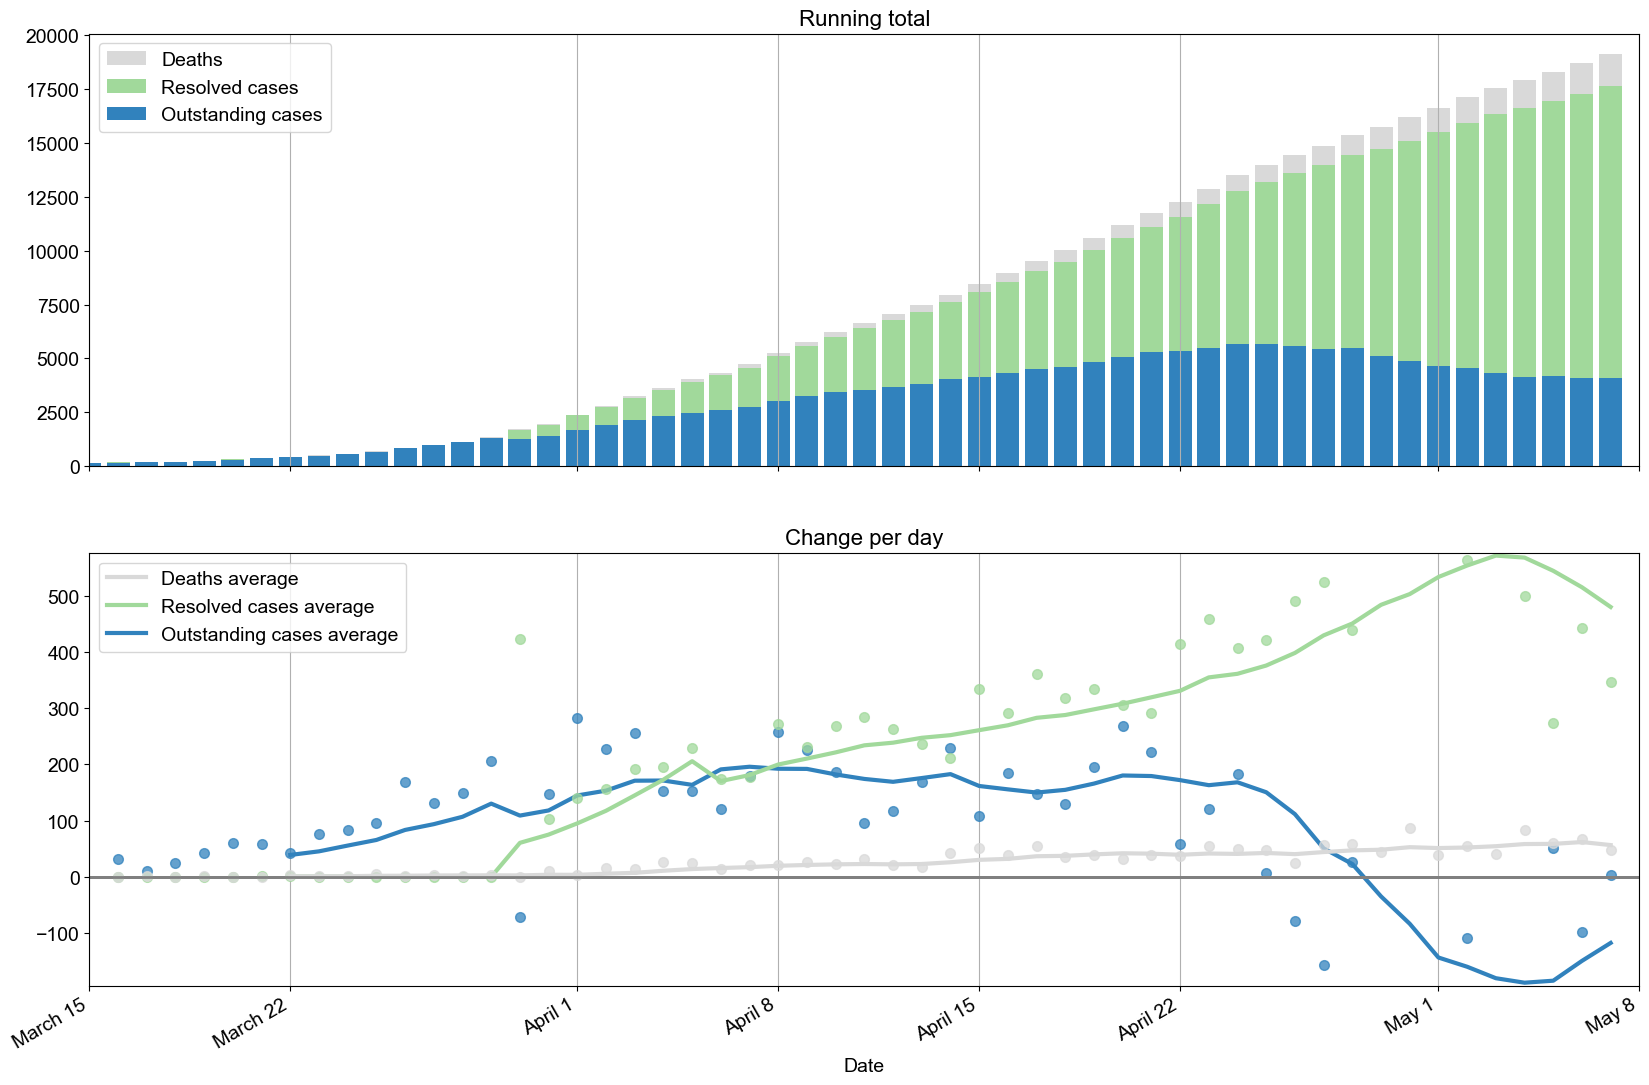
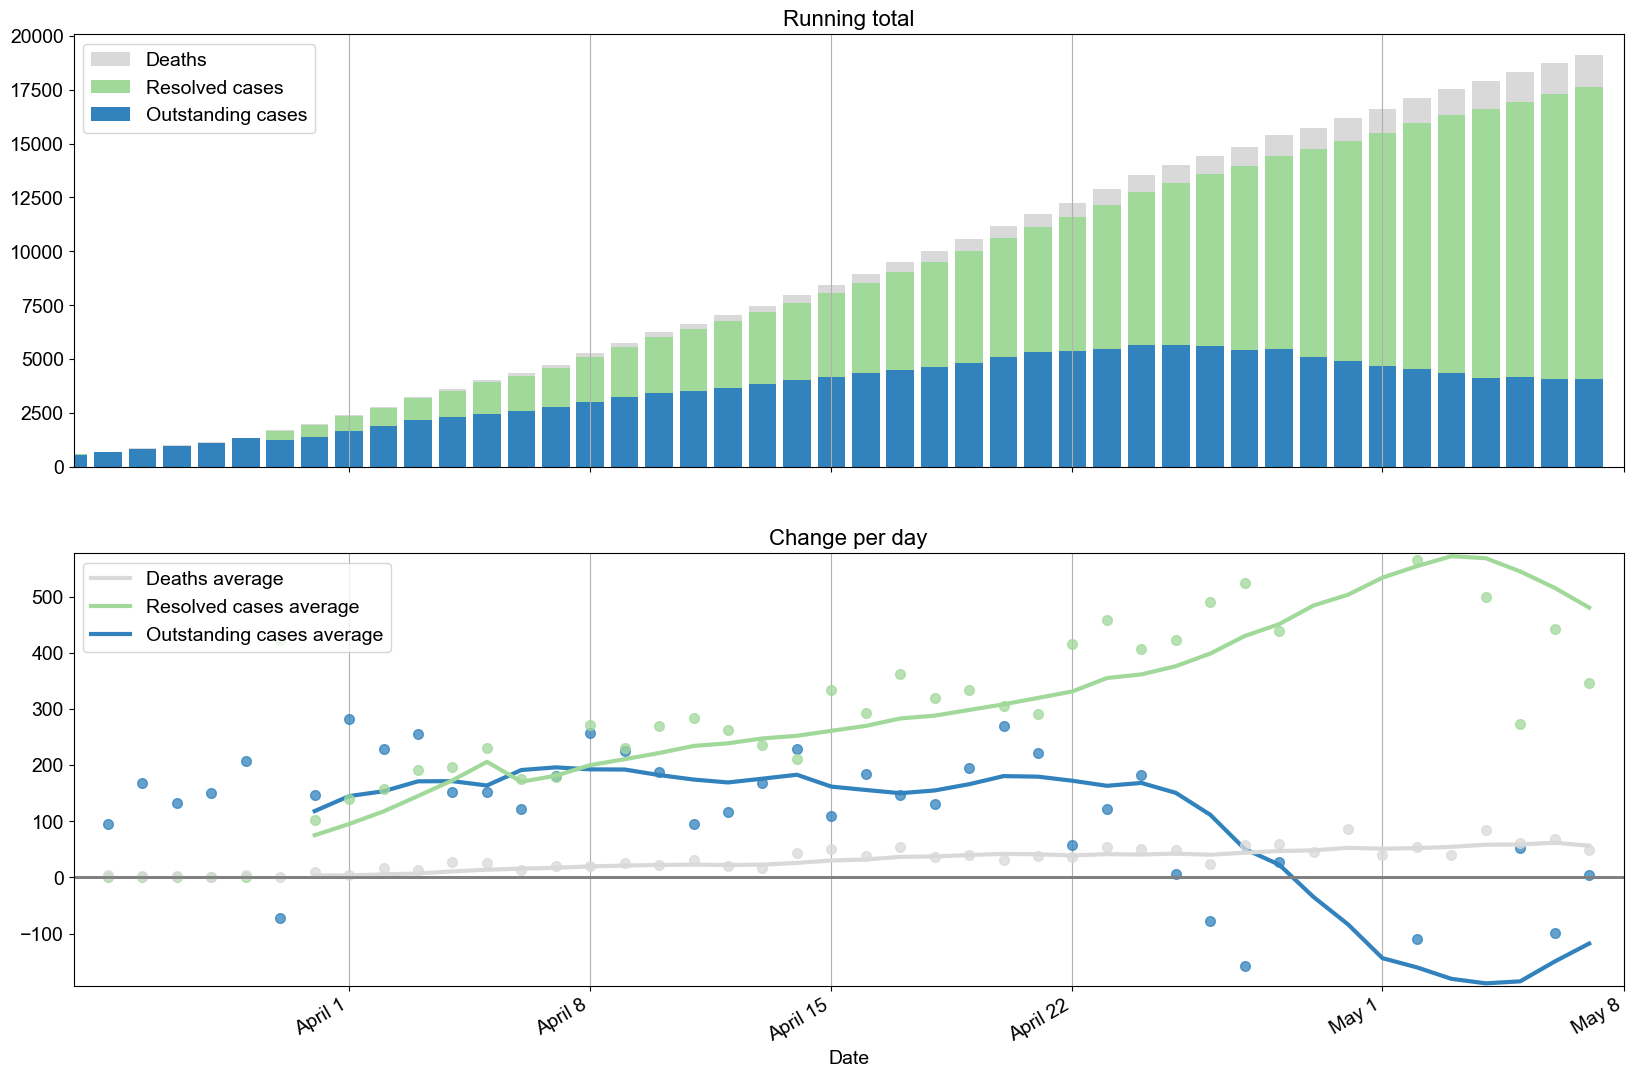
Change the Overview starting date from March 15th to 24th

diff --git a/covid_ontario/plot_on_gov_data.py b/covid_ontario/plot_on_gov_data.py
@@ -424,7 +424,7 @@ def main():
     })
     fig = plot_timeline(
         cases,
-        "2020-03-15",
+        "2020-03-24",
         colormap="tab20c",
         title_append="",
         title_total="Running total"
